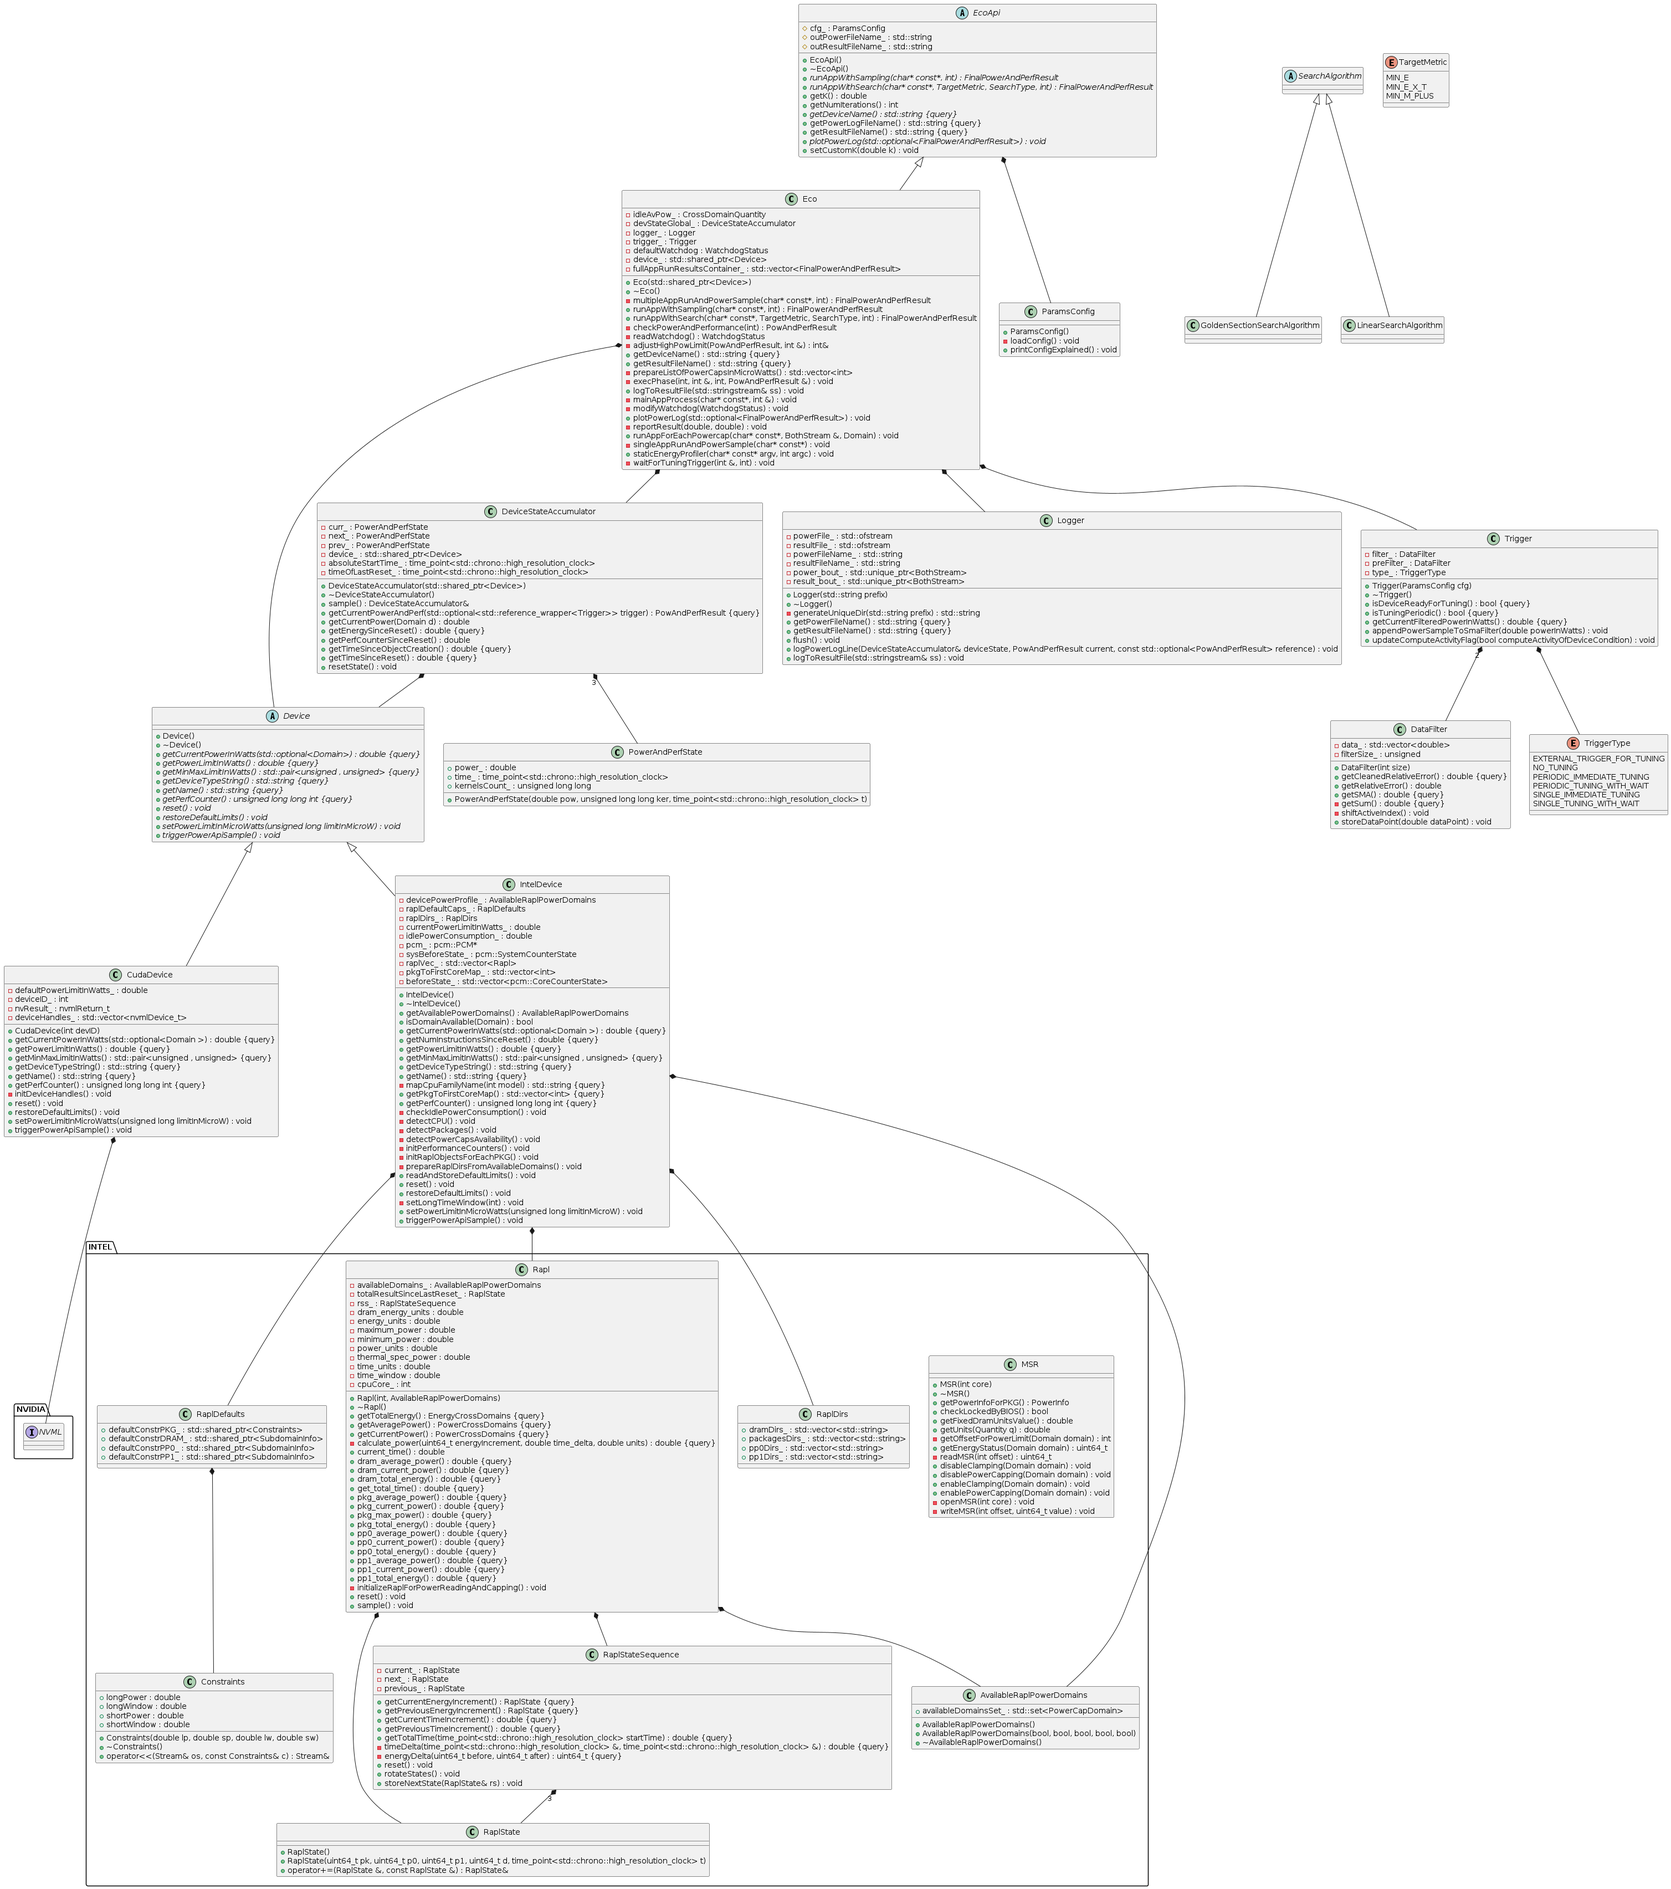
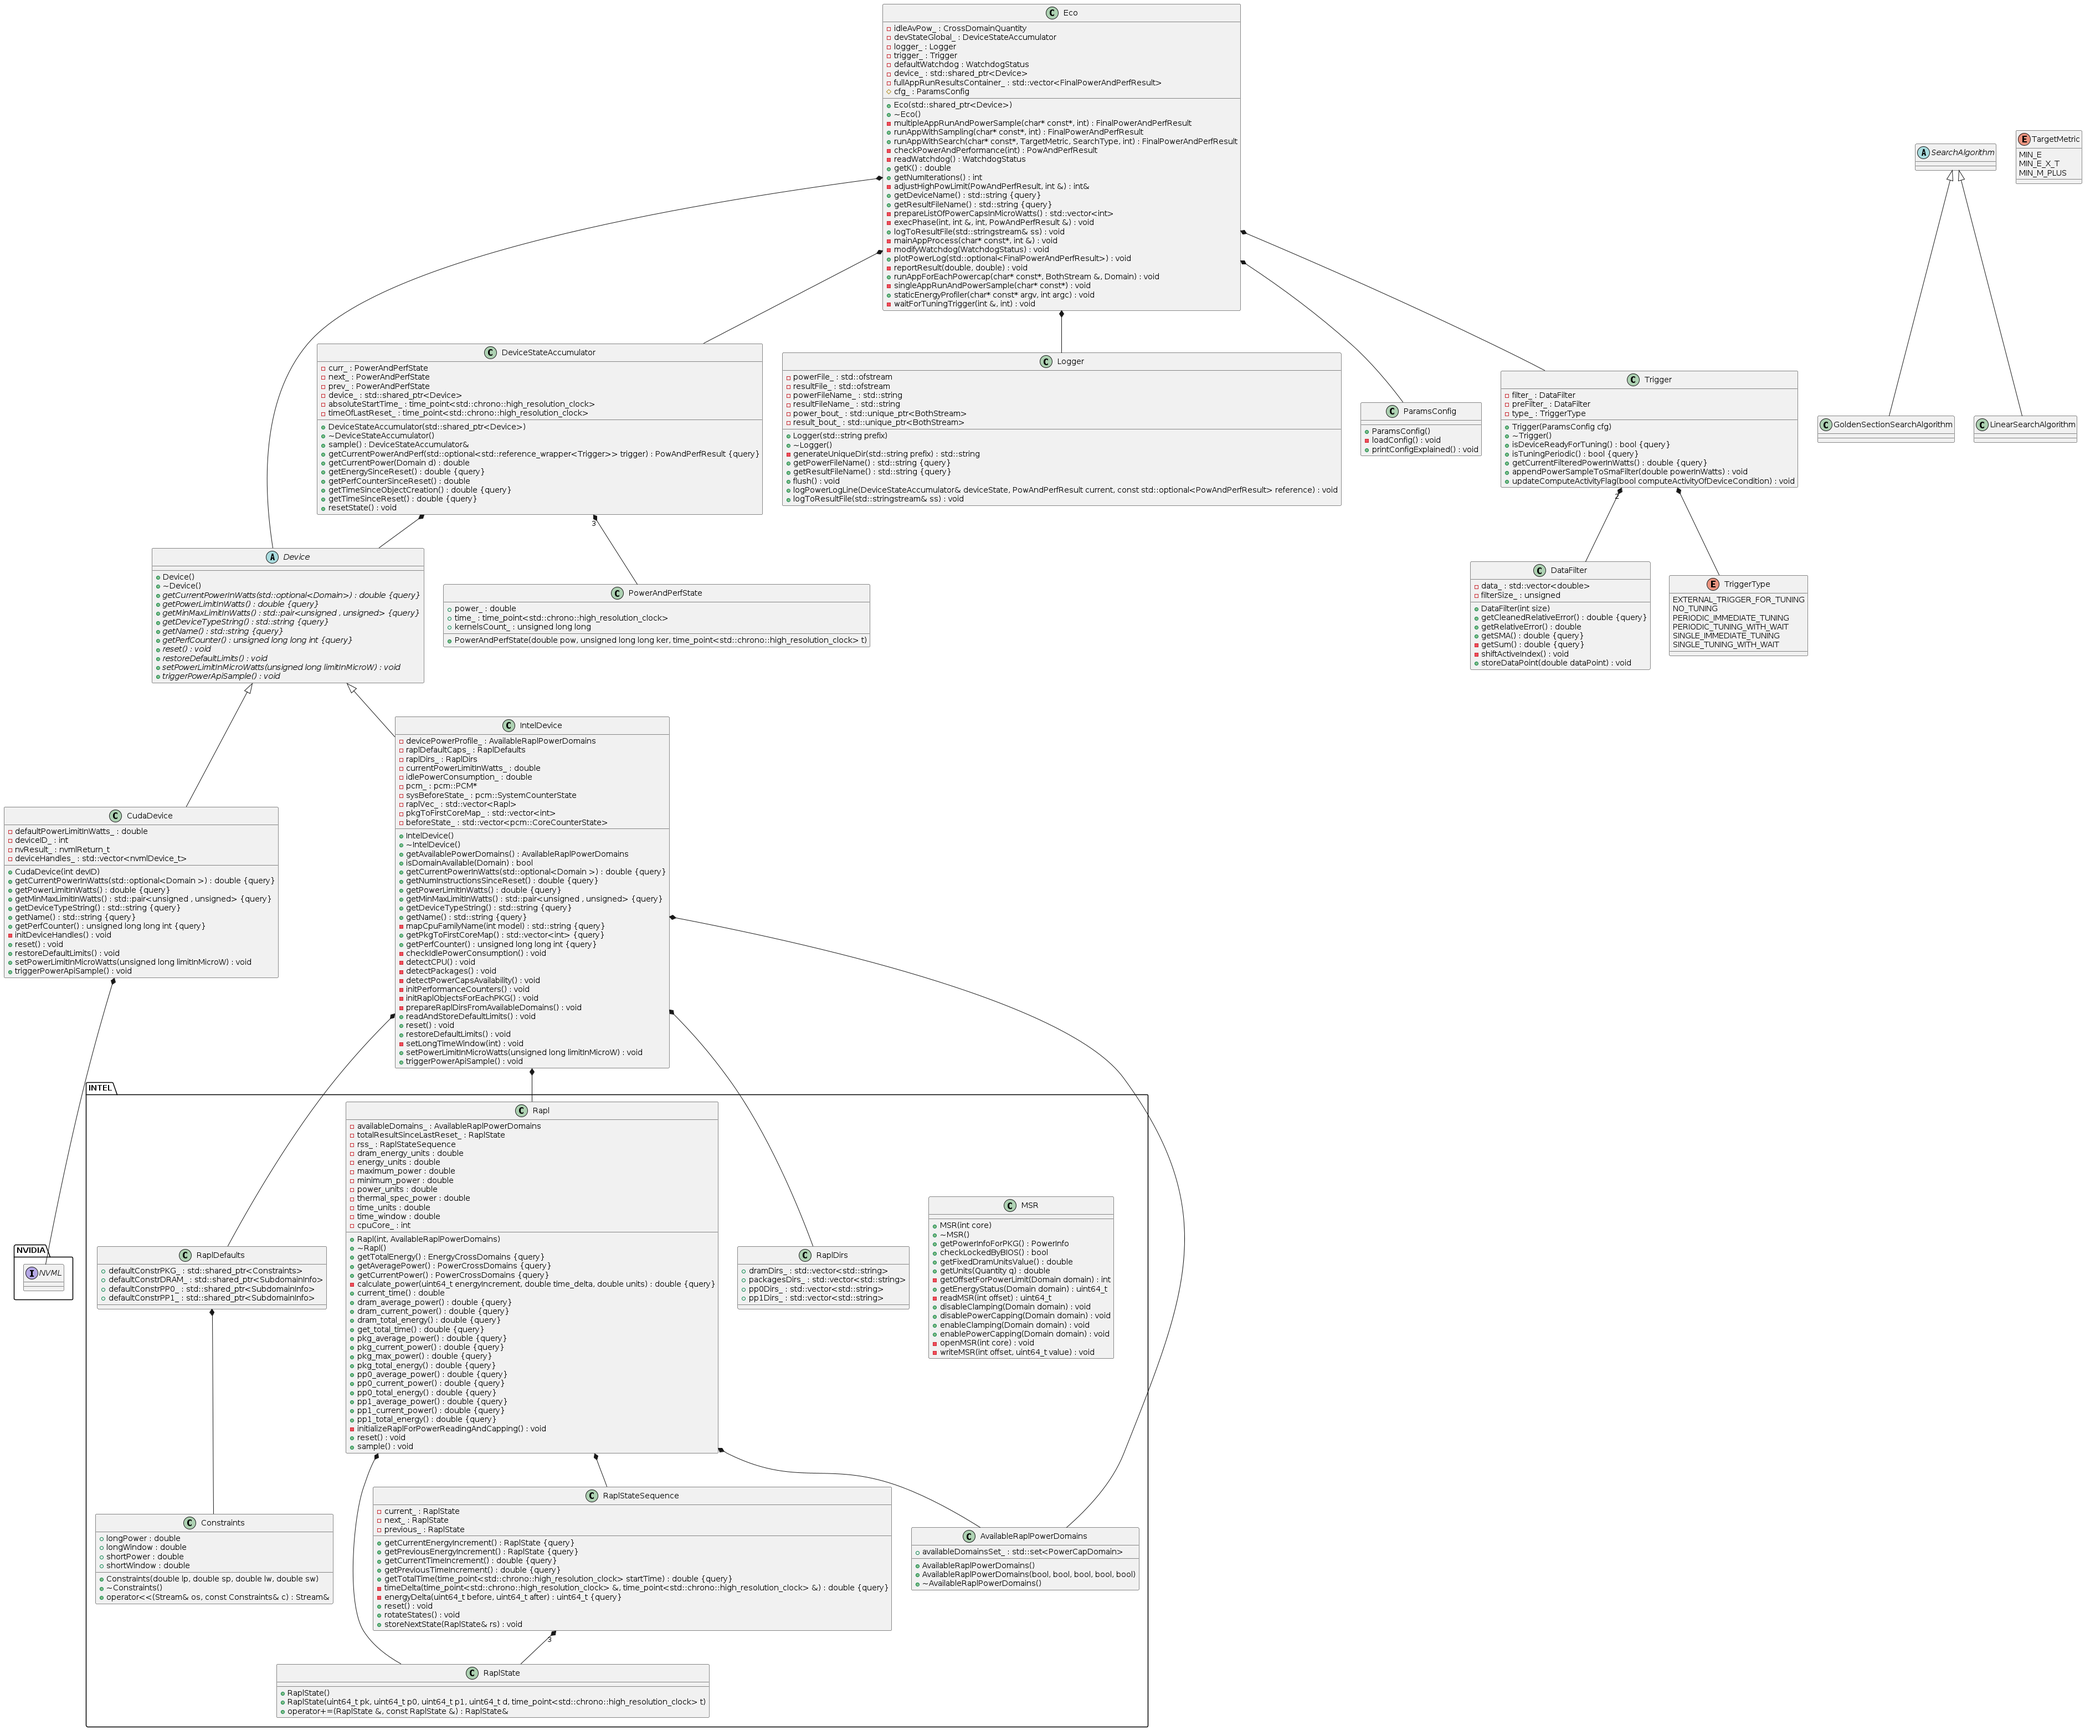
Remove EcoApi abstract class

diff --git a/src/Eco.hpp b/src/Eco.hpp
@@ -52,27 +52,6 @@ void validateExecStatus(int status) {
     }
 }
 
-class EcoApi
-{
-  public:
-    virtual FinalPowerAndPerfResult runAppWithSampling(char* const*, int) = 0;
-    virtual FinalPowerAndPerfResult runAppWithSearch(char* const*, TargetMetric, SearchType, int) = 0;
-    virtual void plotPowerLog(std::optional<FinalPowerAndPerfResult>) = 0;
-    virtual std::string getDeviceName() const = 0;
-
-    double getK() { return cfg_.k_; } // temporary getter until Eco is reorganised
-    void setCustomK(double k) { cfg_.k_ = k; } // temporary setter until Eco is reorganised
-    int getNumIterations() { return cfg_.numIterations_; }
-    virtual std::string getResultFileName() const { return outResultFileName_; }
-    std::string getPowerLogFileName() const { return outPowerFileName_; }
-    EcoApi() = default;
-    virtual ~EcoApi() = default;
-  protected:
-    ParamsConfig cfg_; // stores defaults values of params or reads it from config.yaml
-    std::string outResultFileName_;
-    std::string outPowerFileName_;
-};
-
 using Algorithm = std::function<unsigned(
   std::shared_ptr<Device>,
   DeviceStateAccumulator&,
@@ -85,17 +64,17 @@ using Algorithm = std::function<unsigned(
   int,
   Logger&)>;
 
-class Eco : public EcoApi
+class Eco
 {
   public:
-    FinalPowerAndPerfResult runAppWithSampling(char* const*, int = 1) override;
+    FinalPowerAndPerfResult runAppWithSampling(char* const*, int = 1);
     FinalPowerAndPerfResult runAppWithSearch(
       char* const*,
       TargetMetric,
       SearchType,
-      int = 1) override;
-    void plotPowerLog(std::optional<FinalPowerAndPerfResult>) override;
-    std::string getDeviceName() const override { return device_->getName(); }
+      int = 1);
+    void plotPowerLog(std::optional<FinalPowerAndPerfResult>);
+    std::string getDeviceName() const { return device_->getName(); }
 
     void staticEnergyProfiler(char* const* argv, int argc);
 
@@ -104,11 +83,16 @@ class Eco : public EcoApi
     Eco() = delete;
     Eco(std::shared_ptr<Device>);
     virtual ~Eco();
-    std::string getResultFileName() const override { return logger_.getResultFileName(); }
+    std::string getResultFileName() const { return logger_.getResultFileName(); }
     void logToResultFile(std::stringstream& ss) { logger_.logToResultFile(ss); }
+
+    double getK() { return cfg_.k_; } // temporary getter until Eco is reorganised
+    void setCustomK(double k) { cfg_.k_ = k; } // temporary setter until Eco is reorganised
+    int getNumIterations() { return cfg_.numIterations_; }
 
   protected:
   private:
+    ParamsConfig cfg_; // stores defaults values of params or reads it from config.yaml
     Trigger trigger_;
     std::shared_ptr<Device> device_;
     CrossDomainQuantity idleAvPow_;
@@ -129,6 +113,7 @@ class Eco : public EcoApi
     void execPhase(int, int&, int, PowAndPerfResult&);
     void mainAppProcess(char* const*, int&);
     int& adjustHighPowLimit(PowAndPerfResult, int&);
+
 };
 
 #include <sys/wait.h>
@@ -192,7 +177,7 @@ class LinearSearchAlgorithm : public SearchAlgorithm
       int childProcID,
       int powerSamplingPeriodInMilliSeconds,
       int tuningTimeWindowInMilliSeconds,
-      Logger& logger) const override
+      Logger& logger) const
     {
       const auto [minLimitInWatts, maxLimitInWatts] = device->getMinMaxLimitInWatts();
       const auto minLimitInMictoWatts = minLimitInWatts * 1e6;
@@ -246,7 +231,7 @@ class GoldenSectionSearchAlgorithm : public SearchAlgorithm
       int childProcID,
       int powerSamplingPeriodInMilliSeconds,
       int tuningTimeWindowInMilliSeconds,
-      Logger& logger) const override
+      Logger& logger) const
     {
         const auto [minLimitInWatts, maxLimitInWatts] = device->getMinMaxLimitInWatts();
         int EPSILON = (maxLimitInWatts - minLimitInWatts) * 1e6 / 25;
